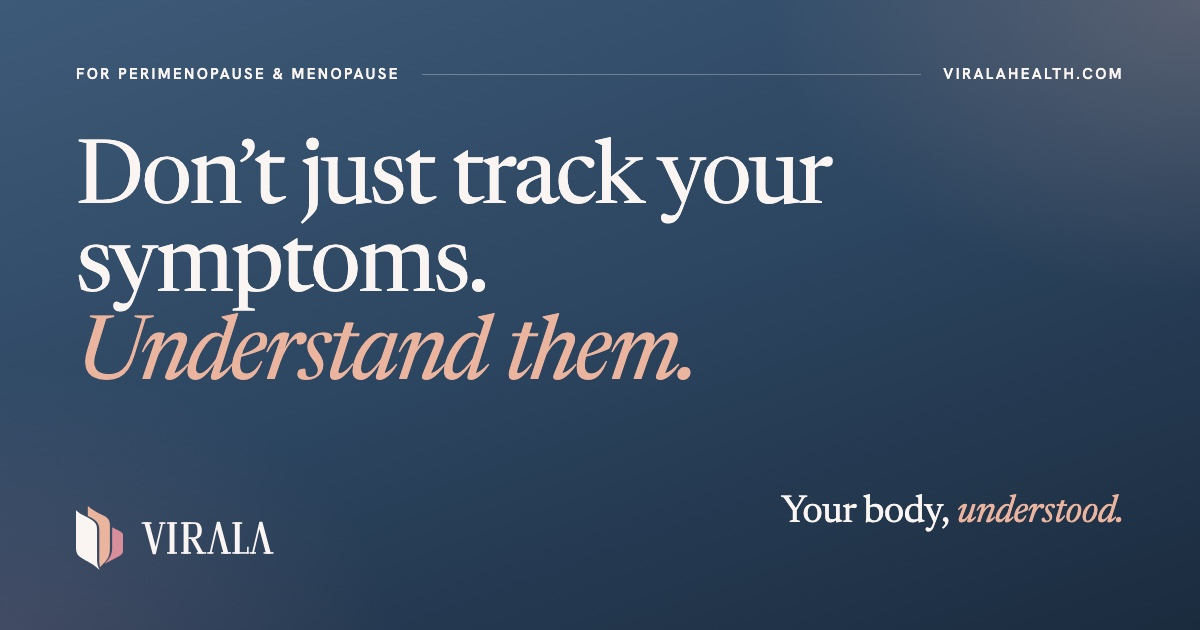
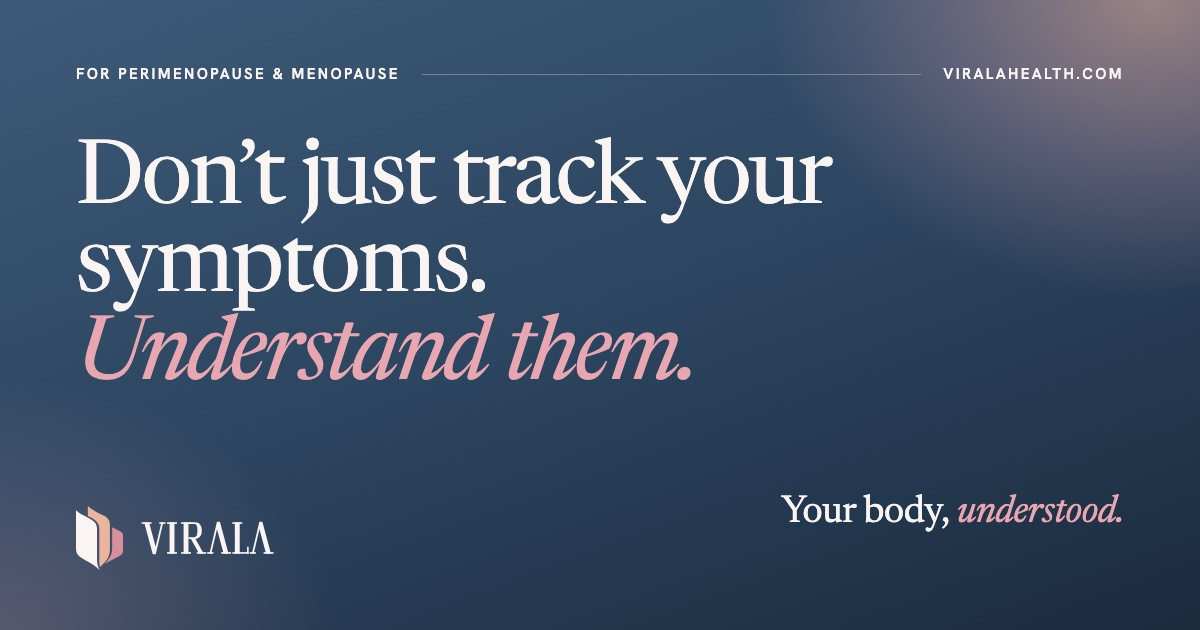
Website: final round before launch (not deployed; branch only)
One rose accent (#A35866; tint #E8A6B1 on Dusk and night), porcelain and Dusk sections
without pale bands, the glow only in the hero card, Meet Vira and the footer, larger
headlines, a deeper sea band; Meet Vira without the example conversation and with the
sparkle in a glow; About sentences restored; privacy line. Built from workspace commit de5ace4.

Changed region(s): [[0.74, 0.0, 1.0, 0.3016]]

diff --git a/styles.css b/styles.css
@@ -11,7 +11,7 @@
 :root{
   color-scheme:light;
   --porcelain:#FAF5F2; --dusk:#2C4560; --dusk-light:#3D5A78; --dusk-deep:#1B2B3E; --night:#131D29;
-  --rose:#A35866; --rose-lift:#D98E9B; --peach:#EBB49F; --ink:#1F2A37; --mist:#DCE5EC; --blush:#F3DCD5;
+  --rose:#A35866; --rose-tint:#E8A6B1; --rose-lift:#D98E9B; --peach:#EBB49F; --ink:#1F2A37; --mist:#DCE5EC; --blush:#F3DCD5;
 
   --bg:var(--porcelain); --surface:#FFFDFB; --text:var(--ink);
   --line:rgba(31,42,55,.12); --line-strong:rgba(31,42,55,.24); --edge:#6E7886;
@@ -20,21 +20,23 @@
   --m1:var(--dusk); --m2:var(--rose); --m3:var(--peach);
   --vs-1:var(--dusk); --vs-2:var(--rose);
   --focus:var(--dusk);
-  --page-glow:radial-gradient(1100px 640px at 100% -12%,rgba(243,220,213,.75),transparent 62%),radial-gradient(900px 560px at -12% 8%,rgba(220,229,236,.7),transparent 62%);
-  --band-mist:linear-gradient(180deg,#DCE5EC 0%,#D2DEE8 100%);
-  --band-blush:linear-gradient(180deg,#F5E2DC 0%,#F0D4CC 100%);
-  --deep:radial-gradient(900px 520px at 92% -6%,rgba(235,180,159,.11),transparent 62%),radial-gradient(760px 480px at -6% 108%,rgba(217,142,155,.07),transparent 62%),linear-gradient(168deg,#34506E 0%,#2C4560 46%,#1B2B3E 100%);
-  --card-deep:radial-gradient(420px 280px at 100% 0%,rgba(235,180,159,.2),transparent 70%),linear-gradient(160deg,#3D5A78 0%,#2C4560 52%,#1E3147 100%);
+  --page-glow:radial-gradient(1100px 640px at 100% -12%,rgba(243,220,213,.5),transparent 62%);
+  /* deep Dusk: plain where it only carries weight; with the VIRALA glow (peach and rose light) only in the hero card,
+     the Meet Vira band and the footer */
+  --deep:linear-gradient(168deg,#2F4A67 0%,#2C4560 40%,#1B2B3E 100%);
+  --deep-glow:radial-gradient(520px 380px at 84% 0%,rgba(240,178,156,.5),rgba(232,166,177,.22) 42%,transparent 72%),radial-gradient(460px 340px at 6% 104%,rgba(232,166,177,.26),transparent 68%),linear-gradient(168deg,#2F4A67 0%,#2C4560 40%,#1B2B3E 100%);
+  --card-deep:radial-gradient(320px 280px at 96% 2%,rgba(240,178,156,.62),rgba(232,166,177,.26) 42%,transparent 74%),radial-gradient(360px 300px at 0% 100%,rgba(232,166,177,.22),transparent 70%),linear-gradient(160deg,#3A5674 0%,#2C4560 50%,#1E3147 100%);
+  --card-plain:linear-gradient(160deg,#34506E 0%,#2C4560 50%,#1E3147 100%);
   --shadow-deep:0 44px 90px -44px rgba(27,43,62,.55);
   --shadow-soft:0 24px 60px -40px rgba(27,43,62,.35);
 
   --serif:"Newsreader",Georgia,"Times New Roman",serif;
   --sans:"Hanken Grotesk",ui-sans-serif,system-ui,-apple-system,"Segoe UI",sans-serif;
   /* one type scale, every page */
-  --fs-display:clamp(2.75rem,1.55rem + 4.6vw,5.25rem);
-  --fs-h1:clamp(2.4rem,1.62rem + 3.1vw,4.25rem);
-  --fs-h2:clamp(2rem,1.5rem + 2vw,3.25rem);
-  --fs-h3:clamp(1.45rem,1.27rem + .75vw,1.875rem);
+  --fs-display:clamp(3rem,1.5rem + 5.6vw,6rem);
+  --fs-h1:clamp(2.6rem,1.6rem + 3.9vw,4.75rem);
+  --fs-h2:clamp(2.3rem,1.45rem + 3.1vw,4rem);
+  --fs-h3:clamp(1.5rem,1.3rem + .85vw,2rem);
   --fs-h4:clamp(1.2rem,1.13rem + .3vw,1.375rem);
   --fs-lede:clamp(1.15rem,1.07rem + .38vw,1.375rem);
   --fs-body:clamp(1.0625rem,1.03rem + .14vw,1.125rem);
@@ -49,24 +51,22 @@
   color-scheme:dark;
   --bg:var(--night); --surface:#1C2A3A; --text:var(--porcelain);
   --line:rgba(250,245,242,.12); --line-strong:rgba(250,245,242,.24); --edge:#93A0AE;
-  --eyebrow:var(--mist); --accent:#E3A3AE; --italic:var(--peach); --marker:var(--peach);
+  --eyebrow:var(--mist); --accent:var(--rose-tint); --italic:var(--rose-tint); --marker:var(--rose-tint);
   --btn:var(--porcelain); --btn-hover:#FFFFFF; --btn-text:var(--ink);
   --m1:var(--porcelain); --m2:var(--peach); --m3:var(--rose-lift);
-  --vs-1:var(--porcelain); --vs-2:var(--peach);
-  --focus:var(--peach);
-  --page-glow:radial-gradient(1100px 640px at 100% -12%,rgba(61,90,120,.38),transparent 62%),radial-gradient(900px 560px at -12% 8%,rgba(217,142,155,.07),transparent 62%);
-  --band-mist:linear-gradient(180deg,#182636 0%,#1C2C3F 100%);
-  --band-blush:linear-gradient(180deg,#2A2427 0%,#30282A 100%);
+  --vs-1:var(--porcelain); --vs-2:var(--rose-tint);
+  --focus:var(--rose-tint);
+  --page-glow:radial-gradient(1100px 640px at 100% -12%,rgba(61,90,120,.38),transparent 62%);
   --shadow-deep:0 44px 90px -44px rgba(0,0,0,.7);
   --shadow-soft:0 24px 60px -40px rgba(0,0,0,.6);
 }
 /* Dusk surfaces: porcelain text, peach italics, porcelain buttons with ink text, the light mark */
-.deep,.join-card,.tier-premium,.site-footer,.promise-band,.mark-badge{
-  --text:var(--porcelain); --eyebrow:var(--porcelain); --italic:var(--peach); --accent:var(--peach); --marker:var(--peach);
+.deep,.join-card,.tier-premium,.site-footer,.promise-band,.mark-badge,.thanks-ig{
+  --text:var(--porcelain); --eyebrow:var(--porcelain); --italic:var(--rose-tint); --accent:var(--rose-tint); --marker:var(--rose-tint);
   --line:rgba(250,245,242,.16); --line-strong:rgba(250,245,242,.3); --edge:rgba(250,245,242,.7);
   --btn:var(--porcelain); --btn-hover:#FFFFFF; --btn-text:var(--ink);
   --m1:var(--porcelain); --m2:var(--peach); --m3:var(--rose-lift);
-  --vs-1:var(--porcelain); --vs-2:var(--peach); --focus:var(--peach);
+  --vs-1:var(--porcelain); --vs-2:var(--rose-tint); --focus:var(--rose-tint);
   color:var(--text)}
 
 /* ---------- base ---------- */
@@ -84,6 +84,8 @@ button{font:inherit;color:inherit;cursor:pointer}
 ::selection{background:var(--blush);color:var(--ink)}
 h1,h2,h3,h4,p,figure,blockquote,ul,ol{margin:0}
 h1,h2,h3,h4{font-family:var(--serif);font-weight:400;font-optical-sizing:auto;text-wrap:balance}
+h1,h2{font-weight:440}
+h1 em,h2 em{font-weight:420}
 h1{font-size:var(--fs-h1);line-height:1.04;letter-spacing:-.022em}
 h2{font-size:var(--fs-h2);line-height:1.08;letter-spacing:-.018em}
 h3{font-size:var(--fs-h3);line-height:1.16;letter-spacing:-.01em}
@@ -96,9 +98,8 @@ p,li{text-wrap:pretty}
 .eyebrow{color:var(--eyebrow);margin-bottom:clamp(14px,1.6vw,20px)}
 .lede{font-size:var(--fs-lede);line-height:1.55;max-width:34em}
 .band{padding-block:var(--section)}
-.band-mist{background:var(--band-mist)}
-.band-blush{background:var(--band-blush)}
 .deep{background:var(--deep)}
+.deep.glow{background:var(--deep-glow)}
 
 /* ---------- controls ---------- */
 .skip{position:fixed;left:16px;top:12px;z-index:200;padding:12px 18px;background:var(--ink);color:var(--porcelain);transform:translateY(-200%);text-decoration:none;border-radius:6px}
@@ -160,14 +161,14 @@ html:not(.js-ready) .theme-toggle,html:not(.js-ready) .menu-toggle{display:none}
 /* Vira's symbol: coloured by its ground. Listening: the companion spark gently brightens; nothing spins. */
 .vs{display:block;flex:none}.vs .vs1{fill:var(--vs-1)}.vs .vs2{fill:var(--vs-2)}
 @media (prefers-reduced-motion:no-preference){.vs-hero .vs2,.vs-meet .vs2{animation:vira-listen 2.8s ease-in-out infinite alternate}}
-@keyframes vira-listen{from{opacity:.65}to{opacity:1;filter:drop-shadow(0 0 3px rgba(235,180,159,.9))}}
+@keyframes vira-listen{from{opacity:.6}to{opacity:1;filter:drop-shadow(0 0 4px rgba(232,166,177,.95))}}
 
 /* ---------- the email signup (Kit's plain HTML form, styled as ours) ---------- */
 .signup{max-width:34rem}
 .signup-label{display:block;font-weight:600;margin-bottom:12px}
 .signup-row{display:flex;gap:8px;padding:6px;border-radius:999px;background:var(--surface);border:1px solid var(--line-strong);box-shadow:var(--shadow-soft);transition:border-color .3s var(--ease),box-shadow .3s var(--ease)}
 .signup-row:focus-within{border-color:var(--dusk);box-shadow:0 0 0 3px rgba(44,69,96,.18),var(--shadow-soft)}
-:root[data-theme="dark"] .signup-row:focus-within{border-color:var(--peach);box-shadow:0 0 0 3px rgba(235,180,159,.25)}
+:root[data-theme="dark"] .signup-row:focus-within{border-color:var(--rose-tint);box-shadow:0 0 0 3px rgba(232,166,177,.25)}
 .signup input{flex:1 1 auto;min-width:0;min-height:52px;padding:0 8px 0 20px;border:0;background:transparent;color:var(--text);font:inherit;font-size:1.0625rem}
 .signup input::placeholder{color:var(--edge);opacity:1}
 .signup input:focus{outline:none}
@@ -177,32 +178,33 @@ html:not(.js-ready) .theme-toggle,html:not(.js-ready) .menu-toggle{display:none}
 
 /* ---------- homepage: hero ---------- */
 .hero{padding-block:clamp(28px,4vw,64px) clamp(72px,8vw,120px)}
-.hero-grid{display:grid;grid-template-columns:minmax(0,1.08fr) minmax(0,.92fr);column-gap:clamp(36px,5.4vw,96px);align-items:center}
+.hero-grid{display:grid;grid-template-columns:minmax(0,1.14fr) minmax(0,.86fr);column-gap:clamp(36px,5vw,88px);align-items:center}
 .status-pill{display:inline-flex;align-items:center;gap:10px;padding:7px 16px 7px 12px;border-radius:999px;background:var(--surface);border:1px solid var(--line);font-size:.875rem;font-weight:600;margin-bottom:clamp(20px,2.4vw,30px)}
-.pill-dot{width:8px;height:8px;border-radius:50%;background:var(--peach);box-shadow:0 0 0 4px rgba(235,180,159,.35);flex:none}
+.pill-dot{width:8px;height:8px;border-radius:50%;background:var(--rose);box-shadow:0 0 0 4px rgba(163,88,102,.18);flex:none}
 .brand-line{font:400 clamp(1.3rem,1.15rem + .6vw,1.65rem)/1.2 var(--serif);margin-bottom:clamp(10px,1.2vw,16px)}
-.hero h1{font-size:var(--fs-display);line-height:1;letter-spacing:-.028em;margin-bottom:clamp(20px,2.4vw,30px)}
+.hero h1{font-size:clamp(3rem,1.45rem + 4.3vw,5.1rem);line-height:1;letter-spacing:-.03em;margin-bottom:clamp(20px,2.4vw,30px)}
 .hero .lede{max-width:31em}
-.join-card{position:relative;scroll-margin-top:100px;padding:clamp(30px,3.6vw,54px);border-radius:32px;background:var(--card-deep);box-shadow:var(--shadow-deep)}
-.join-card h2{font-size:clamp(2.1rem,1.5rem + 2vw,3.25rem);line-height:1.04;margin-bottom:16px}
+.join-card{position:relative;scroll-margin-top:100px;padding:clamp(30px,3.6vw,54px);border-radius:32px;background:var(--card-deep);box-shadow:0 50px 100px -44px rgba(27,43,62,.6),0 0 0 1px rgba(255,255,255,.06) inset}
+.join-card h2{font-size:clamp(2.2rem,1.5rem + 2.1vw,3.4rem);line-height:1.02;margin-bottom:16px}
 .jc-lede{max-width:30em;margin-bottom:clamp(24px,2.6vw,32px)}
 .jc-form{display:grid;gap:12px}
 .jc-form input{width:100%;min-height:60px;padding:0 20px;border-radius:16px;border:1px solid transparent;background:var(--porcelain);color:var(--ink);font:inherit;font-size:1.0625rem;transition:box-shadow .3s var(--ease)}
 .jc-form input::placeholder{color:#6E7886;opacity:1}
-.jc-form input:focus{outline:none;box-shadow:0 0 0 3px var(--peach)}
+.jc-form input:focus{outline:none;box-shadow:0 0 0 3px var(--rose-tint)}
 .jc-form .button{width:100%;min-height:58px;border-radius:16px;box-shadow:none}
 .jc-form .signup-note{margin-top:4px}
 
 /* ---------- homepage: "Not feeling like yourself?" over the soft sea ---------- */
-.img-band{position:relative;overflow:hidden;isolation:isolate;padding-block:clamp(110px,13vw,190px);background:var(--dusk);
-  --text:var(--porcelain);--eyebrow:var(--porcelain);--italic:var(--blush);--line:rgba(250,245,242,.3);color:var(--porcelain)}
+.img-band{position:relative;overflow:hidden;isolation:isolate;padding-block:clamp(120px,15vw,220px);background:var(--dusk);
+  --text:#FFFFFF;--eyebrow:#FFFFFF;--italic:var(--rose-tint);--line:rgba(255,255,255,.4);color:#FFFFFF}
 .img-band .band-photo{position:absolute;inset:0;z-index:-2;margin:0;border-radius:0;background:none}
 .img-band .band-photo img{filter:saturate(.85) contrast(.95)}
-.img-band::before{content:"";position:absolute;inset:0;z-index:-1;background:radial-gradient(860px 500px at 50% 52%,rgba(27,43,62,.66),rgba(27,43,62,.34) 70%,rgba(27,43,62,.12)),linear-gradient(180deg,rgba(44,69,96,.24),rgba(44,69,96,.36))}
-:root[data-theme="dark"] .img-band::before{background:linear-gradient(180deg,rgba(19,29,41,.6),rgba(19,29,41,.74))}
-.img-band h2{text-shadow:0 1px 18px rgba(19,29,41,.3)}
+.img-band::before{content:"";position:absolute;inset:0;z-index:-1;background:radial-gradient(980px 560px at 50% 52%,rgba(27,43,62,.82),rgba(27,43,62,.5) 66%,rgba(27,43,62,.22)),linear-gradient(180deg,rgba(44,69,96,.3),rgba(27,43,62,.55))}
+:root[data-theme="dark"] .img-band::before{background:radial-gradient(980px 560px at 50% 52%,rgba(19,29,41,.86),rgba(19,29,41,.62) 66%,rgba(19,29,41,.44)),linear-gradient(180deg,rgba(19,29,41,.3),rgba(19,29,41,.55))}
+.img-band h2{text-shadow:0 2px 24px rgba(19,29,41,.35)}
+.img-band .ny-line{text-shadow:0 1px 14px rgba(19,29,41,.35)}
 .ny-focus{max-width:860px;margin-inline:auto;text-align:center;display:grid;justify-items:center}
-.ny-focus h2{font-size:var(--fs-h2);margin-bottom:clamp(18px,2.2vw,26px)}
+.ny-focus h2{font-size:clamp(2.8rem,1.5rem + 5.2vw,6rem);line-height:1;letter-spacing:-.025em;margin-bottom:clamp(20px,2.4vw,30px)}
 .ny-line{font-size:var(--fs-lede);line-height:1.55;max-width:32em;margin-bottom:clamp(22px,2.6vw,32px)}
 
 /* ---------- homepage: Why VIRALA ---------- */
@@ -216,8 +218,8 @@ html:not(.js-ready) .theme-toggle,html:not(.js-ready) .menu-toggle{display:none}
 /* ---------- homepage: Free and Premium (the same list; Premium's own first) ---------- */
 .tiers{display:grid;grid-template-columns:minmax(0,.86fr) minmax(0,1.14fr);gap:clamp(16px,2vw,28px);align-items:start}
 .tier{border-radius:32px;padding:clamp(28px,3.4vw,52px)}
-.tier-free{background:var(--surface);box-shadow:var(--shadow-soft)}
-.tier-premium{background:var(--card-deep);box-shadow:var(--shadow-deep)}
+.tier-free{background:var(--surface);border:1px solid var(--line);box-shadow:var(--shadow-soft)}
+.tier-premium{background:var(--card-plain);box-shadow:var(--shadow-deep)}
 .o-tier{font:400 1.5rem/1.2 var(--serif)}
 .o-tier span{margin-left:8px;font:600 var(--fs-label)/1 var(--sans);letter-spacing:.14em;text-transform:uppercase;color:var(--eyebrow);vertical-align:.28em}
 .tier h3{margin:8px 0 0;font-style:italic;color:var(--italic)}
@@ -233,7 +235,7 @@ html:not(.js-ready) .theme-toggle,html:not(.js-ready) .menu-toggle{display:none}
 .tier-premium li.shared{padding-block:11px}
 .tier-premium li.shared b{font-size:1.125rem}
 .tier-premium li.own+li.shared{border-top:1px solid var(--line-strong);margin-top:6px}
-.ptag{font:600 .7rem/1 var(--sans);font-style:normal;letter-spacing:.12em;text-transform:uppercase;color:var(--ink);background:var(--peach);border-radius:999px;padding:6px 10px;align-self:center}
+.ptag{font:600 .7rem/1 var(--sans);font-style:normal;letter-spacing:.12em;text-transform:uppercase;color:var(--ink);background:var(--rose-tint);border-radius:999px;padding:6px 10px;align-self:center}
 
 /* ---------- homepage: Meet Vira (a deep Dusk band) ---------- */
 .mv{display:grid;grid-template-columns:auto minmax(0,1fr);gap:clamp(22px,3.4vw,52px);align-items:start;max-width:920px;margin-inline:auto}
@@ -243,10 +245,13 @@ html:not(.js-ready) .theme-toggle,html:not(.js-ready) .menu-toggle{display:none}
 
 /* ---------- Our promise / Her promise ---------- */
 .promise-inner{text-align:center;display:grid;justify-items:center}
+.promise-calm h2{font-size:clamp(2.6rem,1.5rem + 4.4vw,5.25rem);line-height:1.02;letter-spacing:-.025em}
+.promise-calm{border-top:1px solid var(--line)}
 .promise-inner h2{margin-bottom:22px}
 .promise-inner p:not(.eyebrow){font-size:var(--fs-lede);line-height:1.55;max-width:34em}
 .promise-inner .button{margin-top:32px}
 .promise-band{background:var(--deep);padding-block:var(--section)}
+.mv h2{font-size:clamp(2.6rem,1.5rem + 4.4vw,5.25rem);line-height:1}
 
 /* ---------- Journal cards ---------- */
 .journal-mini{padding-block:var(--section) clamp(56px,6vw,96px)}
@@ -265,14 +270,13 @@ html:not(.js-ready) .theme-toggle,html:not(.js-ready) .menu-toggle{display:none}
 
 /* ---------- the closing signup ---------- */
 .join-end{padding-bottom:var(--section)}
-.join-end-inner{display:grid;grid-template-columns:minmax(0,1fr) minmax(0,1fr);gap:28px clamp(40px,6vw,100px);align-items:end;padding:clamp(32px,4.4vw,64px);border-radius:32px;background:radial-gradient(640px 320px at 100% 0%,rgba(243,220,213,.95),transparent 70%),var(--band-mist);box-shadow:var(--shadow-soft)}
-:root[data-theme="dark"] .join-end-inner{background:radial-gradient(640px 320px at 100% 0%,rgba(217,142,155,.12),transparent 70%),var(--band-mist)}
+.join-end-inner{display:grid;grid-template-columns:minmax(0,1fr) minmax(0,1fr);gap:28px clamp(40px,6vw,100px);align-items:end;padding:clamp(32px,4.4vw,64px);border-radius:32px;background:var(--surface);border:1px solid var(--line);box-shadow:var(--shadow-soft)}
 .join-end h2{font-size:clamp(1.75rem,1.35rem + 1.5vw,2.6rem);margin-bottom:14px}
 .join-end-inner>div>p{max-width:30em}
 .join-end .signup-label{position:absolute!important;width:1px;height:1px;overflow:hidden;clip:rect(0 0 0 0);clip-path:inset(50%);white-space:nowrap}
 
 /* ---------- footer ---------- */
-.site-footer{background:var(--deep);padding-block:clamp(56px,6.4vw,88px) 30px}
+.site-footer{background:var(--deep-glow);padding-block:clamp(56px,6.4vw,88px) 30px}
 .footer-top{display:grid;grid-template-columns:minmax(0,1.4fr) minmax(0,.8fr) minmax(0,1fr);gap:32px clamp(30px,5vw,80px);align-items:start;padding-bottom:clamp(40px,4.4vw,60px)}
 .lockup-footer{gap:16px}.lockup-footer .mark{height:clamp(44px,4.2vw,56px)}
 .wm-footer{height:clamp(28px,3vw,38px)}
@@ -288,7 +292,7 @@ html:not(.js-ready) .theme-toggle,html:not(.js-ready) .menu-toggle{display:none}
 .thanks .mark-thanks{height:clamp(64px,7vw,84px);margin-bottom:clamp(24px,3vw,34px)}
 .thanks h1{margin-bottom:20px}
 .thanks .lede{margin-bottom:clamp(36px,4.4vw,56px)}
-.thanks-ig{width:100%;padding:clamp(30px,4vw,52px);margin-bottom:34px;border-radius:32px;background:var(--band-blush)}
+.thanks-ig{width:100%;padding:clamp(30px,4vw,52px);margin-bottom:34px;border-radius:32px;background:var(--card-plain);box-shadow:var(--shadow-deep)}
 .thanks-ig h2{font-size:clamp(1.75rem,1.35rem + 1.5vw,2.6rem);margin-bottom:12px}
 .thanks-ig p:not(.eyebrow){margin:0 auto 26px;max-width:30em}
 .ig{width:20px;height:20px;fill:none;stroke:currentColor;stroke-width:1.8;flex:none}.ig .ig-dot{fill:currentColor;stroke:none}
@@ -308,11 +312,14 @@ html:not(.js-ready) .theme-toggle,html:not(.js-ready) .menu-toggle{display:none}
 .wc-go{font-weight:600}
 
 /* ---------- Meet Vira page ---------- */
-.vira-intro{padding-block:clamp(36px,5vw,84px) clamp(56px,6.4vw,96px)}
-.vi-copy{max-width:780px}
-.vira-intro .vs-hero{width:clamp(56px,5vw,72px);height:auto;margin-bottom:26px}
+.vira-intro{display:grid;grid-template-columns:minmax(0,1.15fr) minmax(0,.85fr);gap:clamp(24px,4vw,72px);align-items:center;padding-block:clamp(36px,5vw,84px) clamp(56px,6.4vw,96px)}
+.vi-copy{max-width:760px}
 .vi-copy h1{font-size:var(--fs-display);line-height:1;letter-spacing:-.028em;margin-bottom:22px}
 .vi-copy .lede{max-width:34em;margin-bottom:clamp(26px,3vw,36px)}
+.vi-art{position:relative;display:grid;place-items:center;aspect-ratio:1;max-width:460px;width:100%;justify-self:center}
+.vi-art::before{content:"";position:absolute;inset:4%;border-radius:50%;background:radial-gradient(circle at 50% 50%,rgba(235,180,159,.55),rgba(232,166,177,.32) 38%,rgba(220,229,236,.22) 60%,transparent 72%);filter:blur(10px)}
+:root[data-theme="dark"] .vi-art::before{background:radial-gradient(circle at 50% 50%,rgba(232,166,177,.28),rgba(61,90,120,.4) 45%,transparent 72%)}
+.vi-art .vs-hero{position:relative;width:52%;height:auto}
 .vira-points{padding-block:clamp(64px,7vw,104px)}
 .vira-points h2{margin-bottom:clamp(32px,4vw,52px)}
 .vcards{list-style:none;padding:0;margin:0;display:grid;grid-template-columns:repeat(6,minmax(0,1fr));gap:clamp(14px,1.6vw,22px)}
@@ -320,20 +327,6 @@ html:not(.js-ready) .theme-toggle,html:not(.js-ready) .menu-toggle{display:none}
 .vcard:nth-child(4),.vcard:nth-child(5){grid-column:span 3}
 .vcard h3{margin-bottom:12px}
 .vcard p{max-width:34em}
-.convo{padding-block:var(--section)}
-.convo-grid{display:grid;grid-template-columns:minmax(0,.8fr) minmax(0,1.2fr);gap:clamp(32px,5vw,88px);align-items:center}
-.chat{margin:0;padding:clamp(22px,2.8vw,36px);border-radius:32px;background:var(--surface);border:1px solid var(--line);box-shadow:var(--shadow-soft);position:relative}
-.chat-head{display:flex;align-items:center;gap:12px;padding-bottom:16px;margin-bottom:6px;border-bottom:1px solid var(--line)}
-.chat-head .vs{width:30px;height:30px}
-.chat-head b{font:450 1.2rem/1.2 var(--serif)}
-.chat-label{margin-left:auto;padding:5px 10px;border-radius:999px;background:var(--blush);color:var(--ink);font-size:.7rem}
-.bubble{border-radius:22px;padding:14px 18px;max-width:86%;line-height:1.55;font-size:1.0625rem}
-.bubble p{margin:0}
-.bubble.her{margin:22px 0 14px auto;width:fit-content;background:var(--dusk);color:var(--porcelain);border-bottom-right-radius:6px}
-.bubble.vira{display:grid;grid-template-columns:30px minmax(0,1fr);gap:12px;align-items:start;background:var(--mist);color:var(--ink);border-bottom-left-radius:6px;--vs-1:var(--dusk);--vs-2:var(--rose)}
-.bubble.vira .vs-avatar{width:30px;height:30px}
-:root[data-theme="dark"] .bubble.vira{background:#26394F;color:var(--porcelain);--vs-1:var(--porcelain);--vs-2:var(--peach)}
-:root[data-theme="dark"] .bubble.her{background:var(--porcelain);color:var(--ink)}
 
 /* ---------- inner pages ---------- */
 .page-hero{padding-block:clamp(28px,3.6vw,56px) clamp(56px,6vw,96px)}
@@ -362,7 +355,7 @@ html:not(.js-ready) .filter{display:none}
 .gifts h3{margin-bottom:10px}
 .gifts p{max-width:30em}
 .editorial{scroll-margin-top:90px}
-.band-mist .gift-n,.band-blush .gift-n{color:var(--eyebrow)}
+
 .faq-wrap{display:grid;grid-template-columns:minmax(0,.7fr) minmax(0,1.3fr);gap:32px clamp(40px,6vw,110px);padding-block:var(--section)}
 .faq-wrap h2{margin-bottom:20px}
 .faq-contact{max-width:24em}
@@ -398,7 +391,7 @@ html:not(.js-ready) .filter{display:none}
 .article-photo{aspect-ratio:21/9;border-radius:var(--radius);margin-bottom:clamp(8px,1vw,16px)}
 .article-layout{display:grid;grid-template-columns:minmax(0,240px) minmax(0,40rem);justify-content:center;gap:clamp(40px,6vw,96px);padding-block:clamp(44px,5vw,72px) var(--section)}
 .article-layout .prose{width:auto;margin:0}
-.brief{align-self:start;position:sticky;top:104px;padding:22px 24px;border-radius:22px;background:var(--band-mist)}
+.brief{align-self:start;position:sticky;top:104px;padding:22px 24px;border-radius:22px;background:var(--surface);border:1px solid var(--line)}
 .brief .label{color:var(--eyebrow);margin-bottom:10px}
 .brief ul{list-style:none;padding:0;margin:0}
 .brief li{padding:12px 0;border-top:1px solid var(--line);font:450 1.1rem/1.35 var(--serif)}
@@ -419,7 +412,7 @@ html:not(.js-ready) .filter{display:none}
 .refs h2{margin:0 0 .6em;font:600 var(--fs-label)/1.5 var(--sans);letter-spacing:.14em;text-transform:uppercase;color:var(--eyebrow)}
 .refs ol{list-style:none;padding:0;margin:0}
 .refs li{display:grid;grid-template-columns:2.4em minmax(0,1fr);padding:14px 0;border-top:1px solid var(--line);scroll-margin-top:110px;font-size:1rem;line-height:1.5;max-width:none}
-.refs li:target{background:rgba(235,180,159,.2)}
+.refs li:target{background:rgba(163,88,102,.1)}
 .ref-n{font:italic 400 1.15rem/1.4 var(--serif);color:var(--accent)}
 .ref-pub{font-size:.7rem;letter-spacing:.12em}
 .ref-title{display:inline;font:450 1.12rem/1.35 var(--serif);text-decoration:none}
@@ -451,7 +444,8 @@ html:not(.js-ready) .filter{display:none}
   .join-card{margin-top:clamp(32px,5vw,44px)}
   .article-layout{grid-template-columns:minmax(0,40rem)}
   .brief{position:static}
-  .convo-grid{grid-template-columns:minmax(0,1fr)}
+  .vira-intro{grid-template-columns:minmax(0,1fr)}
+  .vi-art{order:-1;max-width:200px;justify-self:start;margin-bottom:-8px}
 }
 @media (max-width:900px){
   .beliefs,.faq-wrap,.join-end-inner{grid-template-columns:minmax(0,1fr)}

diff --git a/index.html b/index.html
@@ -37,16 +37,16 @@
 </div></div></section>
 <section class="approach wrap" aria-labelledby="approach-title"><div class="sec-head reveal"><p class="eyebrow">Why VIRALA</p><h2 id="approach-title">Most apps count your symptoms. <em>VIRALA helps you understand them.</em></h2></div>
 <ol class="steps"><li class="step reveal"><span class="step-n" aria-hidden="true">01</span><h3>Tell it your way</h3><p>A few taps when you’re short on time, or your own words when there’s more to say.</p></li><li class="step reveal"><span class="step-n" aria-hidden="true">02</span><h3>Understand what’s happening</h3><p>Clear, science-backed explanations of what you’re noticing, and what else could be playing a part.</p></li><li class="step reveal"><span class="step-n" aria-hidden="true">03</span><h3>Know what helps</h3><p>Safe, practical things you can do, starting today, and a routine that adapts to what actually works for you.</p></li></ol></section>
-<section class="offer band band-mist" aria-labelledby="offer-title"><div class="wrap"><div class="sec-head reveal"><p class="eyebrow">Free and Premium</p><h2 id="offer-title">Real understanding, free. <em>More, when you want it.</em></h2></div>
+<section class="offer band" aria-labelledby="offer-title"><div class="wrap"><div class="sec-head reveal"><p class="eyebrow">Free and Premium</p><h2 id="offer-title">Real understanding, free. <em>More, when you want it.</em></h2></div>
 <div class="tiers">
 <div class="tier tier-free reveal"><p class="o-tier">VIRALA <span>Free</span></p><h3>The essentials</h3><ul><li class="shared"><svg class="ck" viewBox="0 0 16 16" aria-hidden="true" focusable="false"><path d="M3.2 8.4 6.4 11.4 12.8 4.6"/></svg><div><b>Quick Check-in</b><span>A few taps to say how today is</span></div></li><li class="shared"><svg class="ck" viewBox="0 0 16 16" aria-hidden="true" focusable="false"><path d="M3.2 8.4 6.4 11.4 12.8 4.6"/></svg><div><b>Understanding</b><span>Science-backed explanations of what you’re noticing</span></div></li><li class="shared"><svg class="ck" viewBox="0 0 16 16" aria-hidden="true" focusable="false"><path d="M3.2 8.4 6.4 11.4 12.8 4.6"/></svg><div><b>Your Story</b><span>Clear charts over 7, 30 or 90 days that show what’s changing</span></div></li><li class="shared"><svg class="ck" viewBox="0 0 16 16" aria-hidden="true" focusable="false"><path d="M3.2 8.4 6.4 11.4 12.8 4.6"/></svg><div><b>The library</b><span>Trusted answers on every topic</span></div></li></ul></div>
 <div class="tier tier-premium reveal"><p class="o-tier">VIRALA <span>Premium</span></p><ul><li class="own"><svg class="vs vs-item" viewBox="0 0 100 100" aria-hidden="true" focusable="false"><path class="vs1" d="M47.29 4.40 C59.45 27.28 59.70 33.86 60.82 34.62 C61.87 35.49 60.94 42.42 85.68 40.41 C67.26 50.19 64.14 51.70 63.38 52.82 C62.51 53.87 56.05 54.38 58.43 83.62 C46.86 61.86 46.30 56.14 45.18 55.38 C44.13 54.51 45.54 47.42 22.30 49.31 C39.60 40.12 41.86 38.30 42.62 37.18 C43.49 36.13 49.79 35.13 47.29 4.40 Z"/><path class="vs2" d="M16.09 69.03 C19.43 76.54 19.29 78.72 19.62 78.98 C19.93 79.27 19.45 81.39 26.98 81.30 C21.20 83.87 20.28 84.29 20.02 84.62 C19.73 84.93 17.73 84.95 17.84 93.97 C14.75 87.04 14.71 85.28 14.38 85.02 C14.07 84.73 14.67 82.58 7.52 82.66 C13.01 80.22 13.72 79.71 13.98 79.38 C14.27 79.07 16.20 78.81 16.09 69.03 Z"/></svg><div><b>Vira</b><span>Your personal AI companion</span></div><em class="ptag">Premium</em></li><li class="own"><svg class="ck" viewBox="0 0 16 16" aria-hidden="true" focusable="false"><path d="M3.2 8.4 6.4 11.4 12.8 4.6"/></svg><div><b>Your Routine</b><span>Your own routine of small, safe steps</span></div><em class="ptag">Premium</em></li><li class="own"><svg class="ck" viewBox="0 0 16 16" aria-hidden="true" focusable="false"><path d="M3.2 8.4 6.4 11.4 12.8 4.6"/></svg><div><b>Your Story, deeper</b><span>Your own words alongside the charts</span></div><em class="ptag">Premium</em></li><li class="shared"><svg class="ck" viewBox="0 0 16 16" aria-hidden="true" focusable="false"><path d="M3.2 8.4 6.4 11.4 12.8 4.6"/></svg><div><b>Quick Check-in</b><span>A few taps to say how today is</span></div></li><li class="shared"><svg class="ck" viewBox="0 0 16 16" aria-hidden="true" focusable="false"><path d="M3.2 8.4 6.4 11.4 12.8 4.6"/></svg><div><b>Understanding</b><span>Science-backed explanations of what you’re noticing</span></div></li><li class="shared"><svg class="ck" viewBox="0 0 16 16" aria-hidden="true" focusable="false"><path d="M3.2 8.4 6.4 11.4 12.8 4.6"/></svg><div><b>Your Story</b><span>Clear charts over 7, 30 or 90 days that show what’s changing</span></div></li><li class="shared"><svg class="ck" viewBox="0 0 16 16" aria-hidden="true" focusable="false"><path d="M3.2 8.4 6.4 11.4 12.8 4.6"/></svg><div><b>The library</b><span>Trusted answers on every topic</span></div></li></ul></div>
 </div></div></section>
-<section class="meet-vira band deep" aria-labelledby="meet-vira-title"><div class="wrap"><div class="mv reveal"><svg class="vs vs-meet" viewBox="0 0 100 100" aria-hidden="true" focusable="false"><path class="vs1" d="M47.29 4.40 C59.45 27.28 59.70 33.86 60.82 34.62 C61.87 35.49 60.94 42.42 85.68 40.41 C67.26 50.19 64.14 51.70 63.38 52.82 C62.51 53.87 56.05 54.38 58.43 83.62 C46.86 61.86 46.30 56.14 45.18 55.38 C44.13 54.51 45.54 47.42 22.30 49.31 C39.60 40.12 41.86 38.30 42.62 37.18 C43.49 36.13 49.79 35.13 47.29 4.40 Z"/><path class="vs2" d="M16.09 69.03 C19.43 76.54 19.29 78.72 19.62 78.98 C19.93 79.27 19.45 81.39 26.98 81.30 C21.20 83.87 20.28 84.29 20.02 84.62 C19.73 84.93 17.73 84.95 17.84 93.97 C14.75 87.04 14.71 85.28 14.38 85.02 C14.07 84.73 14.67 82.58 7.52 82.66 C13.01 80.22 13.72 79.71 13.98 79.38 C14.27 79.07 16.20 78.81 16.09 69.03 Z"/></svg>
+<section class="meet-vira band deep glow" aria-labelledby="meet-vira-title"><div class="wrap"><div class="mv reveal"><svg class="vs vs-meet" viewBox="0 0 100 100" aria-hidden="true" focusable="false"><path class="vs1" d="M47.29 4.40 C59.45 27.28 59.70 33.86 60.82 34.62 C61.87 35.49 60.94 42.42 85.68 40.41 C67.26 50.19 64.14 51.70 63.38 52.82 C62.51 53.87 56.05 54.38 58.43 83.62 C46.86 61.86 46.30 56.14 45.18 55.38 C44.13 54.51 45.54 47.42 22.30 49.31 C39.60 40.12 41.86 38.30 42.62 37.18 C43.49 36.13 49.79 35.13 47.29 4.40 Z"/><path class="vs2" d="M16.09 69.03 C19.43 76.54 19.29 78.72 19.62 78.98 C19.93 79.27 19.45 81.39 26.98 81.30 C21.20 83.87 20.28 84.29 20.02 84.62 C19.73 84.93 17.73 84.95 17.84 93.97 C14.75 87.04 14.71 85.28 14.38 85.02 C14.07 84.73 14.67 82.58 7.52 82.66 C13.01 80.22 13.72 79.71 13.98 79.38 C14.27 79.07 16.20 78.81 16.09 69.03 Z"/></svg>
 <div><p class="eyebrow">VIRALA Premium</p><h2 id="meet-vira-title">Meet <em>Vira.</em></h2>
 <p>Your personal AI companion. Tell her what’s going on, in your own words. She remembers what you choose to share, connects the dots and helps you work out what to do next. Always clear that she’s an AI.</p>
 <a class="button" href="vira.html">Meet Vira <span class="arrow" aria-hidden="true">→</span></a></div></div></div></section>
-<section class="promise-calm band band-blush" aria-labelledby="promise-title"><div class="wrap promise-inner reveal">
+<section class="promise-calm band" aria-labelledby="promise-title"><div class="wrap promise-inner reveal">
 <p class="eyebrow">Our promise</p><h2 id="promise-title">Never a diagnosis.<br><em>Always your decision.</em></h2>
 <p>VIRALA won’t diagnose conditions or choose treatments. What you share stays yours: you choose what VIRALA remembers, and you can change or delete it anytime.</p></div></section>
 <section class="journal-mini wrap" aria-labelledby="journal-title"><div class="jm-head"><div><p class="eyebrow">The VIRALA Journal</p><h2 id="journal-title">Read to understand. <em>Then act.</em></h2></div><a class="text-link" href="journal.html">All articles <span class="arrow" aria-hidden="true">→</span></a></div>

diff --git a/about.html b/about.html
@@ -17,9 +17,9 @@
 <p class="lede">VIRALA isn’t another tracker. It gives women science-backed understanding of perimenopause and menopause, concrete help with what to do, and a routine that adapts to what works for them.</p></section>
 <section class="beliefs wrap" id="philosophy" aria-labelledby="beliefs-title"><div class="beliefs-head reveal"><p class="eyebrow">What we believe</p><h2 id="beliefs-title">Understanding is the point.<br><em>Help is the outcome.</em></h2>
 <p class="pull">VIRALA should give back more than it asks of you — no perfect tracking, no guilt for gaps.</p></div>
-<ol class="gifts gifts-2 reveal"><li><span class="gift-n">01</span><h3>Heard, including the detail.</h3><p>You should be understood from what you actually say: the detail, not just a symptom keyword.</p></li><li><span class="gift-n">02</span><h3>Honest about what science can explain.</h3><p>Science-backed means showing what reliable evidence can and can’t tell you.</p></li><li><span class="gift-n">03</span><h3>Understanding that leads somewhere.</h3><p>Small, feasible next steps you choose, shaped by what you’ve already tried and what fits your real life.</p></li><li><span class="gift-n">04</span><h3>Remembered, under your control.</h3><p>What you’ve confirmed, tried, rejected and changed, kept only as you allow, and always yours to correct or delete.</p></li></ol></section>
-<section class="editorial band band-mist" id="editorial" aria-labelledby="editorial-title"><div class="wrap"><div class="sec-head reveal"><p class="eyebrow">How we write</p><h2 id="editorial-title">Evidence first. <em>Then what helps.</em></h2></div>
-<ol class="gifts gifts-3"><li class="reveal"><span class="gift-n">01</span><h3>Evidence</h3><p>Every article is original writing, checked against the public-health sources it cites.</p></li><li class="reveal"><span class="gift-n">02</span><h3>Sources</h3><p>Each article lists its references, with links and the date each publisher last reviewed its page.</p></li><li class="reveal"><span class="gift-n">03</span><h3>Helping</h3><p>We write to help you act: what’s known, what stays individual, safe steps you can take, and when something needs a healthcare professional.</p></li></ol></div></section>
+<ol class="gifts gifts-2 reveal"><li><span class="gift-n">01</span><h3>Heard, including the detail.</h3><p>You should be understood from what you actually say: the detail, not just a symptom keyword. A restless night, a hard week and a question you can’t quite phrase all count.</p></li><li><span class="gift-n">02</span><h3>Honest about what science can explain.</h3><p>Science-backed means showing what reliable evidence can and can’t tell you, and considering other possibilities instead of blaming everything on hormones.</p></li><li><span class="gift-n">03</span><h3>Understanding that leads somewhere.</h3><p>Small, feasible next steps you choose, shaped by what you’ve already tried and what fits your real life.</p></li><li><span class="gift-n">04</span><h3>Remembered, under your control.</h3><p>What you’ve confirmed, tried, rejected and changed, kept only as you allow, and always yours to correct or delete.</p></li></ol></section>
+<section class="editorial band deep" id="editorial" aria-labelledby="editorial-title"><div class="wrap"><div class="sec-head reveal"><p class="eyebrow">How we write</p><h2 id="editorial-title">Evidence first. <em>Then what helps.</em></h2></div>
+<ol class="gifts gifts-3"><li class="reveal"><span class="gift-n">01</span><h3>Evidence</h3><p>Every article is original writing, checked against the public-health sources it cites. We don’t claim more certainty than the evidence supports.</p></li><li class="reveal"><span class="gift-n">02</span><h3>Sources</h3><p>Each article lists its references, with links and the date each publisher last reviewed its page, so you can read further and judge for yourself.</p></li><li class="reveal"><span class="gift-n">03</span><h3>Helping</h3><p>We write to help you act: what’s known, what stays individual, safe steps you can take, and when something needs a healthcare professional. A possibility is never presented as a diagnosis.</p></li></ol></div></section>
 <section class="faq-wrap wrap" id="faq" aria-labelledby="faq-title"><div class="reveal"><h2 id="faq-title">Good<br><em>questions.</em></h2>
 <p class="faq-contact">Something unclear, or something we got wrong? Write to <a href="mailto:support@viralahealth.com">support@viralahealth.com</a>. Please leave out sensitive health details.</p></div>
 <div class="faq reveal"><details><summary>Is VIRALA available now?</summary><p>Not yet. VIRALA is coming soon, and people on the email list hear first.</p></details><details><summary>Who is VIRALA for?</summary><p>Women in early perimenopause, perimenopause, menopause and postmenopause, including anyone who isn’t sure which stage they’re in. Only a clinician can assess that, and VIRALA won’t guess it.</p></details><details><summary>What’s free?</summary><p>Quick Check-in; clear, science-backed Understanding that ends in safe things you can do today; Your Story, with charts over 7, 30 or 90 days that show what’s helping; and the library, with a “what can help” for every topic. Premium has Vira for both quick check-ins and writing in your own words, deeper personal context in Your Story, and Your Routine, where help lives over time.</p></details><details><summary>Who is Vira?</summary><p>Vira is the personal AI companion in VIRALA Premium. She responds to your quick check-ins and to what you write in your own words, helps you understand it, then suggests safe, practical steps. She’s always clear that she’s an AI, not a healthcare professional. There is no AI on this website.</p></details><details><summary>What does “science-backed” mean here?</summary><p>That explanations are grounded in relevant, trusted evidence, with their limits explained. Journal articles name and link their sources, and every library topic says what can help. It doesn’t mean the app has been clinically validated.</p></details><details><summary>Can VIRALA diagnose a condition or choose a treatment?</summary><p>No. VIRALA is for understanding and safe, everyday self-care, not diagnosis or treatment. Please talk to a qualified healthcare professional about your own symptoms and care.</p></details><details><summary>What do I get by email?</summary><p>Occasional updates, and the first word when the app launches. We only ask for your email address, and every email has an unsubscribe link.</p></details><details><summary>How can I contact VIRALA?</summary><p>Email support@viralahealth.com with questions, corrections, accessibility feedback or privacy requests. Please don’t send medical records or urgent medical questions; this inbox isn’t a healthcare or emergency service.</p></details></div></section>

diff --git a/vira.html b/vira.html
@@ -14,16 +14,12 @@
 <nav class="main-nav" id="main-nav" aria-label="Main"><a href="vira.html" aria-current="page">Meet Vira</a><a href="journal.html">Journal</a><a href="about.html">About</a><a class="nav-join" href="index.html#join">Join the list</a></nav>
 <div class="header-tools"><button class="theme-toggle" type="button" aria-pressed="false" aria-label="Dark appearance"><svg viewBox="0 0 24 24" aria-hidden="true"><circle cx="12" cy="12" r="8"/><path d="M12 4a8 8 0 0 0 0 16Z"/></svg></button><button class="menu-toggle" type="button" aria-controls="main-nav" aria-expanded="false"><span>Menu</span></button></div>
 </div></header><main id="main"><section class="vira-intro wrap" aria-labelledby="vira-hero-title">
-<div class="vi-copy"><svg class="vs vs-hero" viewBox="0 0 100 100" aria-hidden="true" focusable="false"><path class="vs1" d="M47.29 4.40 C59.45 27.28 59.70 33.86 60.82 34.62 C61.87 35.49 60.94 42.42 85.68 40.41 C67.26 50.19 64.14 51.70 63.38 52.82 C62.51 53.87 56.05 54.38 58.43 83.62 C46.86 61.86 46.30 56.14 45.18 55.38 C44.13 54.51 45.54 47.42 22.30 49.31 C39.60 40.12 41.86 38.30 42.62 37.18 C43.49 36.13 49.79 35.13 47.29 4.40 Z"/><path class="vs2" d="M16.09 69.03 C19.43 76.54 19.29 78.72 19.62 78.98 C19.93 79.27 19.45 81.39 26.98 81.30 C21.20 83.87 20.28 84.29 20.02 84.62 C19.73 84.93 17.73 84.95 17.84 93.97 C14.75 87.04 14.71 85.28 14.38 85.02 C14.07 84.73 14.67 82.58 7.52 82.66 C13.01 80.22 13.72 79.71 13.98 79.38 C14.27 79.07 16.20 78.81 16.09 69.03 Z"/></svg><p class="eyebrow">VIRALA Premium</p>
+<div class="vi-copy"><p class="eyebrow">VIRALA Premium</p>
 <h1 id="vira-hero-title">Meet <em>Vira.</em></h1>
 <p class="lede">Vira is your personal AI companion inside VIRALA. Tell her what’s going on, in your own words. She helps you understand what’s happening, shows you safe, practical things you can do, starting today, and builds a routine around what works for you.</p>
-<a class="button" href="index.html#join">Join the list <span class="arrow" aria-hidden="true">→</span></a></div></section>
+<a class="button" href="index.html#join">Join the list <span class="arrow" aria-hidden="true">→</span></a></div>
+<div class="vi-art" aria-hidden="true"><svg class="vs vs-hero" viewBox="0 0 100 100" aria-hidden="true" focusable="false"><path class="vs1" d="M47.29 4.40 C59.45 27.28 59.70 33.86 60.82 34.62 C61.87 35.49 60.94 42.42 85.68 40.41 C67.26 50.19 64.14 51.70 63.38 52.82 C62.51 53.87 56.05 54.38 58.43 83.62 C46.86 61.86 46.30 56.14 45.18 55.38 C44.13 54.51 45.54 47.42 22.30 49.31 C39.60 40.12 41.86 38.30 42.62 37.18 C43.49 36.13 49.79 35.13 47.29 4.40 Z"/><path class="vs2" d="M16.09 69.03 C19.43 76.54 19.29 78.72 19.62 78.98 C19.93 79.27 19.45 81.39 26.98 81.30 C21.20 83.87 20.28 84.29 20.02 84.62 C19.73 84.93 17.73 84.95 17.84 93.97 C14.75 87.04 14.71 85.28 14.38 85.02 C14.07 84.73 14.67 82.58 7.52 82.66 C13.01 80.22 13.72 79.71 13.98 79.38 C14.27 79.07 16.20 78.81 16.09 69.03 Z"/></svg></div></section>
 <section class="vira-points wrap" aria-labelledby="chapters-title"><h2 id="chapters-title" class="reveal">What Vira <em>does.</em></h2><ol class="vcards"><li class="vcard reveal"><span class="vc-n">01</span><h3>Listens, in your own words</h3><p>No forms and no right vocabulary. Tell her about a hard night, a strange week or a question you can’t quite phrase.</p></li><li class="vcard reveal"><span class="vc-n">02</span><h3>Remembers what you choose</h3><p>Tell her once. What you choose to share is carried forward, so you never start from zero, and you can change or delete it anytime.</p></li><li class="vcard reveal"><span class="vc-n">03</span><h3>Connects the dots</h3><p>When something comes back, Vira helps you see the pattern, without guessing at causes or blaming everything on hormones.</p></li><li class="vcard reveal"><span class="vc-n">04</span><h3>Helps you act</h3><p>Every conversation ends with safe, practical things you can do, starting today. You decide what to try.</p></li><li class="vcard reveal"><span class="vc-n">05</span><h3>Grows with you</h3><p>The steps that help become Your Routine. Tell Vira how they went, and it adapts, only with your yes.</p></li></ol></section>
-<section class="convo band band-blush" aria-labelledby="convo-title"><div class="wrap convo-grid"><h2 id="convo-title" class="reveal">A conversation <em>with Vira.</em></h2>
-<figure class="chat reveal" aria-label="Example conversation with Vira"><div class="chat-head"><svg class="vs" viewBox="0 0 100 100" aria-hidden="true" focusable="false"><path class="vs1" d="M47.29 4.40 C59.45 27.28 59.70 33.86 60.82 34.62 C61.87 35.49 60.94 42.42 85.68 40.41 C67.26 50.19 64.14 51.70 63.38 52.82 C62.51 53.87 56.05 54.38 58.43 83.62 C46.86 61.86 46.30 56.14 45.18 55.38 C44.13 54.51 45.54 47.42 22.30 49.31 C39.60 40.12 41.86 38.30 42.62 37.18 C43.49 36.13 49.79 35.13 47.29 4.40 Z"/><path class="vs2" d="M16.09 69.03 C19.43 76.54 19.29 78.72 19.62 78.98 C19.93 79.27 19.45 81.39 26.98 81.30 C21.20 83.87 20.28 84.29 20.02 84.62 C19.73 84.93 17.73 84.95 17.84 93.97 C14.75 87.04 14.71 85.28 14.38 85.02 C14.07 84.73 14.67 82.58 7.52 82.66 C13.01 80.22 13.72 79.71 13.98 79.38 C14.27 79.07 16.20 78.81 16.09 69.03 Z"/></svg><b>Vira</b><p class="chat-label">Example</p></div>
-<div class="bubble her"><p>I keep waking at 3am and I’m wrecked by the afternoon.</p></div>
-<div class="bubble vira"><svg class="vs vs-avatar" viewBox="0 0 100 100" aria-hidden="true" focusable="false"><path class="vs1" d="M47.29 4.40 C59.45 27.28 59.70 33.86 60.82 34.62 C61.87 35.49 60.94 42.42 85.68 40.41 C67.26 50.19 64.14 51.70 63.38 52.82 C62.51 53.87 56.05 54.38 58.43 83.62 C46.86 61.86 46.30 56.14 45.18 55.38 C44.13 54.51 45.54 47.42 22.30 49.31 C39.60 40.12 41.86 38.30 42.62 37.18 C43.49 36.13 49.79 35.13 47.29 4.40 Z"/><path class="vs2" d="M16.09 69.03 C19.43 76.54 19.29 78.72 19.62 78.98 C19.93 79.27 19.45 81.39 26.98 81.30 C21.20 83.87 20.28 84.29 20.02 84.62 C19.73 84.93 17.73 84.95 17.84 93.97 C14.75 87.04 14.71 85.28 14.38 85.02 C14.07 84.73 14.67 82.58 7.52 82.66 C13.01 80.22 13.72 79.71 13.98 79.38 C14.27 79.07 16.20 78.81 16.09 69.03 Z"/></svg><p>That sounds exhausting. You’ve mentioned waking at night three times this week. Want to look at what might be playing a part, and a few things you could try tonight?</p></div>
-</figure></div></section>
 <section class="promise-band" aria-labelledby="promise-title"><div class="wrap promise-inner reveal">
 <p class="eyebrow">Her promise</p><h2 id="promise-title">Always clear that she’s an AI.<br><em>Never in place of your clinician.</em></h2>
 <p>Vira won’t diagnose or choose treatment, and she tells you when something is worth taking to a healthcare professional.</p>

diff --git a/privacy.html b/privacy.html
@@ -14,7 +14,7 @@
 <nav class="main-nav" id="main-nav" aria-label="Main"><a href="vira.html">Meet Vira</a><a href="journal.html">Journal</a><a href="about.html">About</a><a class="nav-join" href="index.html#join">Join the list</a></nav>
 <div class="header-tools"><button class="theme-toggle" type="button" aria-pressed="false" aria-label="Dark appearance"><svg viewBox="0 0 24 24" aria-hidden="true"><circle cx="12" cy="12" r="8"/><path d="M12 4a8 8 0 0 0 0 16Z"/></svg></button><button class="menu-toggle" type="button" aria-controls="main-nav" aria-expanded="false"><span>Menu</span></button></div>
 </div></header><main id="main"><section class="page-hero wrap"><p class="mh-eyebrow"><span>Privacy</span><span class="mh-rule" aria-hidden="true"></span><span>Website and email list</span></p><h1>Your privacy,<br><em>plainly.</em></h1>
-<p class="lede">This notice explains what happens to your information when you visit viralahealth.com or join our email list. The VIRALA app comes with its own privacy notice.</p></section>
+<p class="lede">This notice explains what happens to your information when you visit viralahealth.com or join our email list. The VIRALA app has a separate privacy notice, published with the app.</p></section>
 <div class="prose-wrap"><div class="prose privacy">
 <h2>Visiting the website</h2><p>The website is hosted on GitHub Pages, a service of GitHub, Inc. in the United States. To deliver the pages and keep the service secure, GitHub processes technical information about each visit, including your IP address, and keeps logs of it for security purposes. We rely on our legitimate interest in running a secure website. GitHub’s <a href="https://docs.github.com/en/site-policy/privacy-policies/github-general-privacy-statement" rel="noopener noreferrer">privacy statement</a> explains how it handles this information.</p>
 <p>The website sets no cookies and uses no analytics, advertising pixels or embedded third-party content. Fonts and images are served from the website itself.</p>
